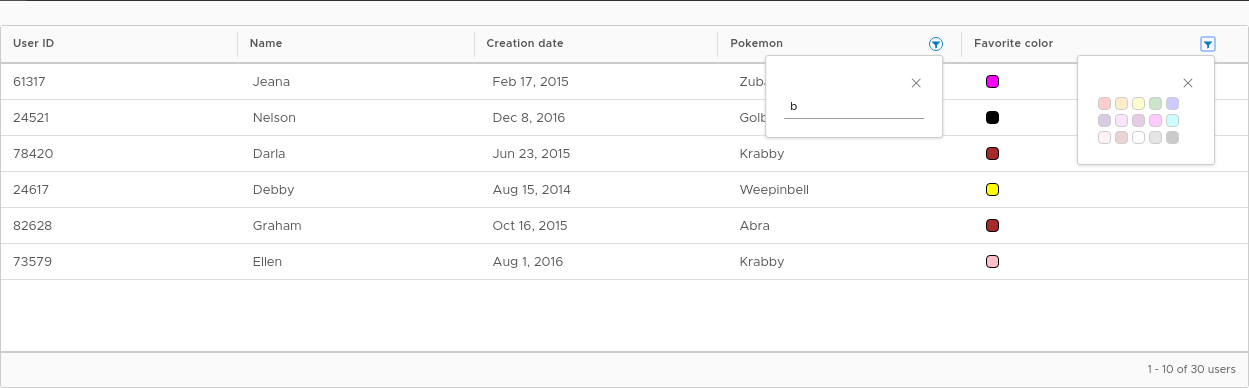
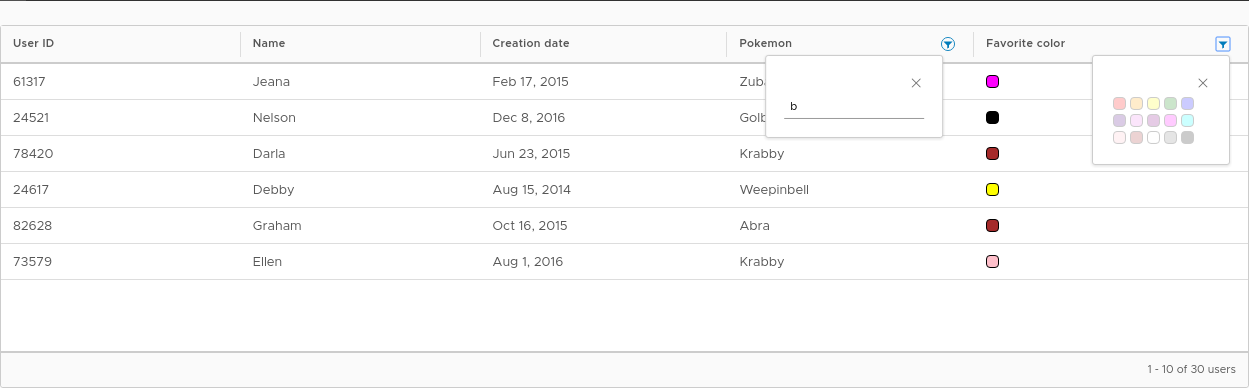
[NG] Fix datagrid alignment bug

diff --git a/src/clarity-angular/data/datagrid/render/main-renderer.spec.ts b/src/clarity-angular/data/datagrid/render/main-renderer.spec.ts
@@ -4,12 +4,13 @@
  * This software is released under MIT license.
  * The full license information can be found in LICENSE in the root directory of this project.
  */
-import {Component, DebugElement} from "@angular/core";
+import {Component} from "@angular/core";
 import {ComponentFixture, TestBed} from "@angular/core/testing";
 import {BrowserAnimationsModule} from "@angular/platform-browser/animations";  // Needed to recreate issue #1084
 
 import {ClrDatagridModule} from "../datagrid.module";
 import {TestContext} from "../helpers.spec";
+import {Page} from "../providers/page";
 
 import {DatagridHeaderRenderer} from "./header-renderer";
 import {DatagridMainRenderer} from "./main-renderer";
@@ -183,6 +184,75 @@ export default function(): void {
                 expect(organizer.widths[1].strict).toBe(false);
             });
         });
+
+        describe("scrollbar spy on page change", () => {
+            let context: TestContext<DatagridMainRenderer, DatagridHeightTest>;
+            let page: Page;
+            let organizer: DatagridRenderOrganizer;
+
+            beforeEach(function() {
+                context = this.create(DatagridMainRenderer, DatagridHeightTest);
+                page = context.getClarityProvider(Page);
+                organizer = context.getClarityProvider(DatagridRenderOrganizer);
+            });
+
+            it("scrollbar spy when the page has changed", () => {
+                let scrollSpyFlag: boolean = false;
+                organizer.scrollbar.subscribe(() => {
+                    scrollSpyFlag = true;
+                    console.log("Test");
+                });
+
+                context.detectChanges();
+                organizer.resize();
+
+                context.fixture.whenStable().then(() => {
+                    expect(scrollSpyFlag).toBe(true);
+                });
+
+                scrollSpyFlag = false;
+
+                page.next();
+                context.detectChanges();
+
+                context.fixture.whenStable().then(() => {
+                    expect(scrollSpyFlag).toBe(true);
+                });
+            });
+        });
+
+        describe("scrollbar spy on expandable rows", () => {
+            let context: TestContext<DatagridMainRenderer, DatagridScrollbarTest>;
+            let organizer: DatagridRenderOrganizer;
+
+            beforeEach(function() {
+                context = this.create(DatagridMainRenderer, DatagridScrollbarTest);
+                organizer = context.getClarityProvider(DatagridRenderOrganizer);
+            });
+
+            it("adds scrollbar when the rows are expanded", () => {
+                let scrollSpyFlag: boolean = false;
+                organizer.scrollbar.subscribe(() => {
+                    scrollSpyFlag = true;
+                });
+
+                context.detectChanges();
+                organizer.resize();
+
+                context.fixture.whenStable().then(() => {
+                    expect(scrollSpyFlag).toBe(true);
+                });
+
+                scrollSpyFlag = false;
+
+                context.testComponent.expand = true;
+                context.detectChanges();
+
+                context.fixture.whenStable().then(() => {
+                    expect(scrollSpyFlag).toBe(true);
+                });
+            });
+        });
     });
 }
 
@@ -283,4 +353,28 @@ class DatagridHeightTest {
             this.pageSize = 5;  // after 3rd click
         }
     }
+}
+
+@Component({
+    template: `
+        <clr-datagrid>
+            <clr-dg-column>Number</clr-dg-column>
+            <clr-dg-row *clrDgItems="let number of numbers">
+                <clr-dg-cell>{{number}}</clr-dg-cell>
+                <clr-dg-row-detail *clrIfExpanded="expand">
+                    Lorem ipsum...
+                </clr-dg-row-detail>
+            </clr-dg-row>
+
+            <clr-dg-footer>
+                <clr-dg-pagination [clrDgPageSize]="pageSize"></clr-dg-pagination>
+            </clr-dg-footer>
+        </clr-datagrid>
+    `
+})
+class DatagridScrollbarTest {
+    numbers = [1, 2, 3, 4, 5, 6, 7, 8, 9, 0, 1, 2, 3, 4, 5, 6, 7, 8, 9, 0];
+    pageSize = 5;
+
+    expand: boolean = false;
 }

diff --git a/src/clarity-angular/data/datagrid/render/main-renderer.ts b/src/clarity-angular/data/datagrid/render/main-renderer.ts
@@ -137,7 +137,24 @@ export class DatagridMainRenderer implements AfterContentInit, AfterViewChecked,
         this.shouldStabilizeColumns = false;
         if (this.columnsSizesStable) {
             // change in items might have introduced/taken away the scrollbar
-            this.organizer.scrollbar.next();
+
+            // FIXME: setTimeout is needed here because:
+            // When the user changes the page the following things happen:
+            // 1. The array which contains the items displayed is updated to contain the items on the new page.
+            // 2. An event is emitted which is subscribed to by the main renderer (this file) and this marks the
+            // shouldStabilizeColumns flag to true
+            // 3. While this is happening the datagrid is in the process of cleaning up the view. The view first
+            // renders the new displayed items and then cleans up the old items. But there is a point where the view
+            // contains the old items as well as the new items. So if the page size is 10 the view contains 20 items.
+            // This causes the datagrid body to overflow.
+            // Now since shouldStabilizeColumns was set to true, the scrollbar width is calculated
+            // and added to the datagrid header. Adding the setTimeout gives Angular time to clean up the view so that
+            // the scrollbar disappears.
+            // See this: https://github.com/angular/angular/issues/19094
+            // When the above issue is resolve, remove the setTimeout
+            setTimeout(() => {
+                this.organizer.scrollbar.next();
+            });
             return;
         }
         // No point resizing if there are no rows, we wait until they are actually loaded.

diff --git a/src/app/datagrid/pagination/pagination.html b/src/app/datagrid/pagination/pagination.html
@@ -79,6 +79,9 @@
         <clr-dg-cell>
             <span class="color-square" [style.backgroundColor]="user.color"></span>
         </clr-dg-cell>
+        <clr-dg-row-detail *clrIfExpanded="expand">
+            Lorem ipsum...
+        </clr-dg-row-detail>
     </clr-dg-row>
 
     <clr-dg-footer>

diff --git a/src/app/datagrid/pagination/pagination.ts b/src/app/datagrid/pagination/pagination.ts
@@ -26,6 +26,7 @@ const EXAMPLE = `
 export class DatagridPaginationDemo {
     example = EXAMPLE;
     users: User[];
+    expanded: false;
 
     constructor(private inventory: Inventory) {
         inventory.size = 103;
